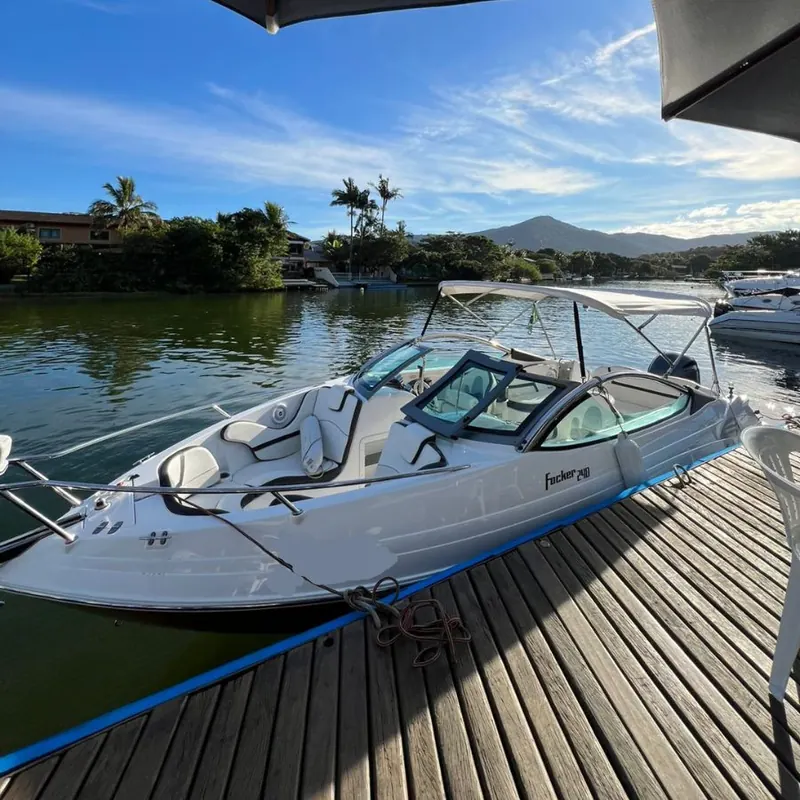
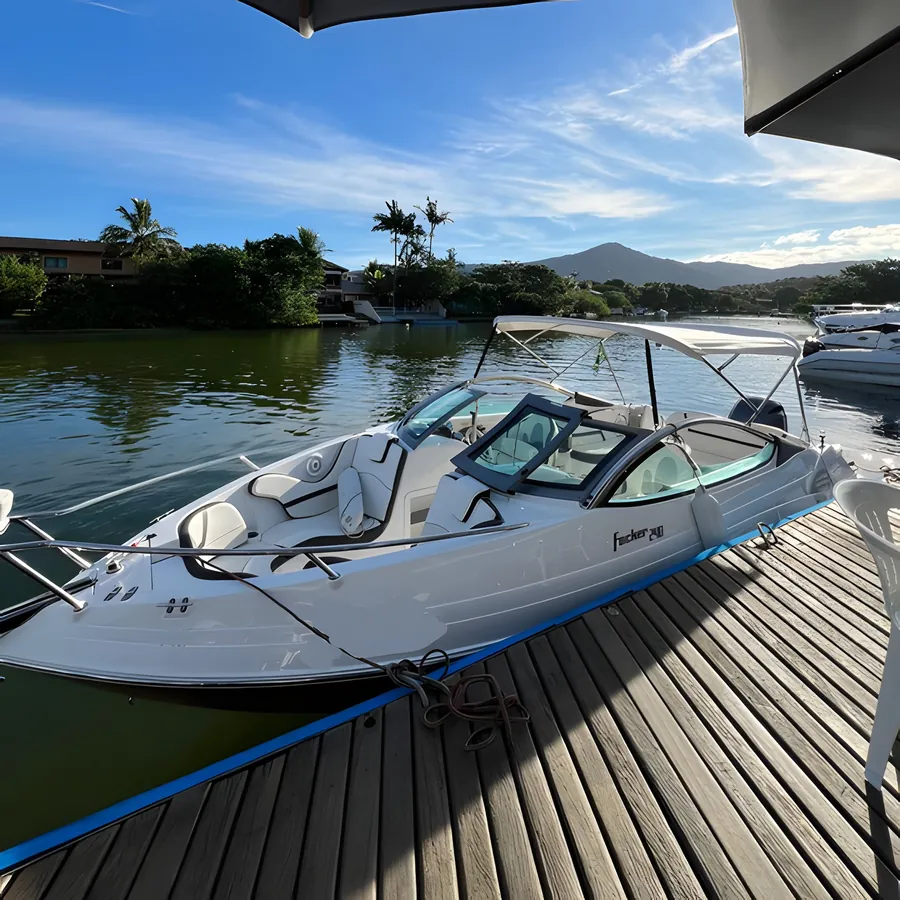
feat: capas das lanchas e fotos da home melhoradas com IA (Real-ESRGAN x4plus)
Originais e versões melhoradas ficam fora do Git, em Site/imagens-site-antigo/
na pasta do cliente, com manifesto. Processo registrado no CLAUDE.md.

diff --git a/CLAUDE.md b/CLAUDE.md
@@ -81,6 +81,19 @@ Ver `docs/funcionalidades.md` (lista fechada com o Fabiano em 2026-11-12) e
 - Azul / gradiente da marca nos botões e em cards estratégicos.
 - Avaliações: galeria em destaque com a nota 4,8 do Google.
 
+## Imagens melhoradas com IA (mesmo método da Panifran)
+
+- **Modelo:** Real-ESRGAN x4plus em ONNX (Qualcomm AI Hub, `real_esrgan_x4plus-onnx-float`, v0.66.0),
+  rodando local no `onnxruntime` (CPU), entrada fixa 128×128 processada em blocos sobrepostos
+  (12 px) com costura em rampa. ~70–90 s por foto no CPU.
+- **Regra:** foto com lado maior ≥ 1600 px não passa na IA (só redimensiona). Menor que isso:
+  reduz a entrada para no máx. 560 px, aplica 4x e reduz a saída para no máx. 1600 px.
+- **Onde fica:** `E:\Clientes\Barra Boat Floripa\Site\imagens-site-antigo\` com `originais/`
+  (download fiel do WordPress), `melhoradas-ia/` (JPG q92) e `manifesto.json` (URL de origem →
+  arquivos, tamanhos, método e em qual lancha/página a foto é usada). Fora do Git.
+- **No site:** WebP gerados a partir de `melhoradas-ia/` (capas de lancha 900 px, fotos 1400 px).
+  As galerias das páginas de lancha devem sair do mesmo `melhoradas-ia/`.
+
 ## Regras de copy (Freela)
 
 Português. Sem travessões, sem emojis. Números concretos. Nunca falar preço.
